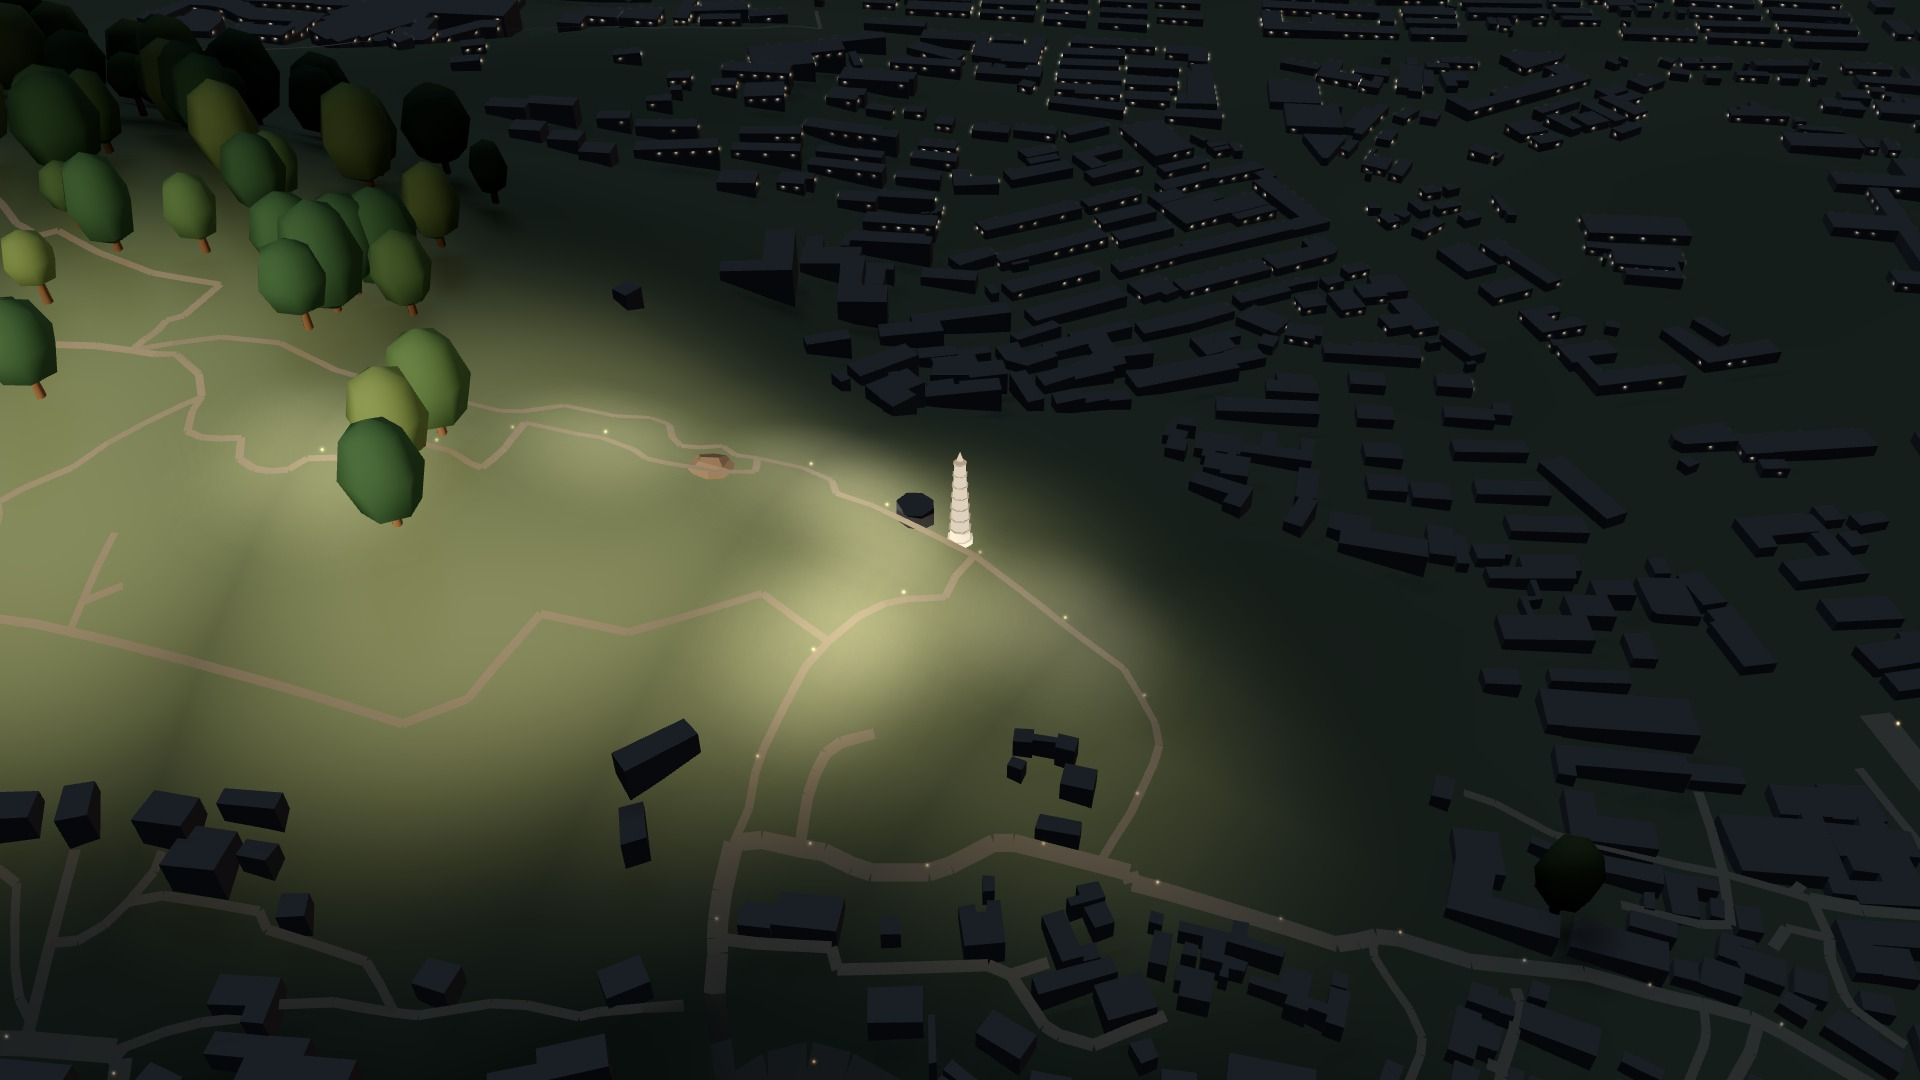
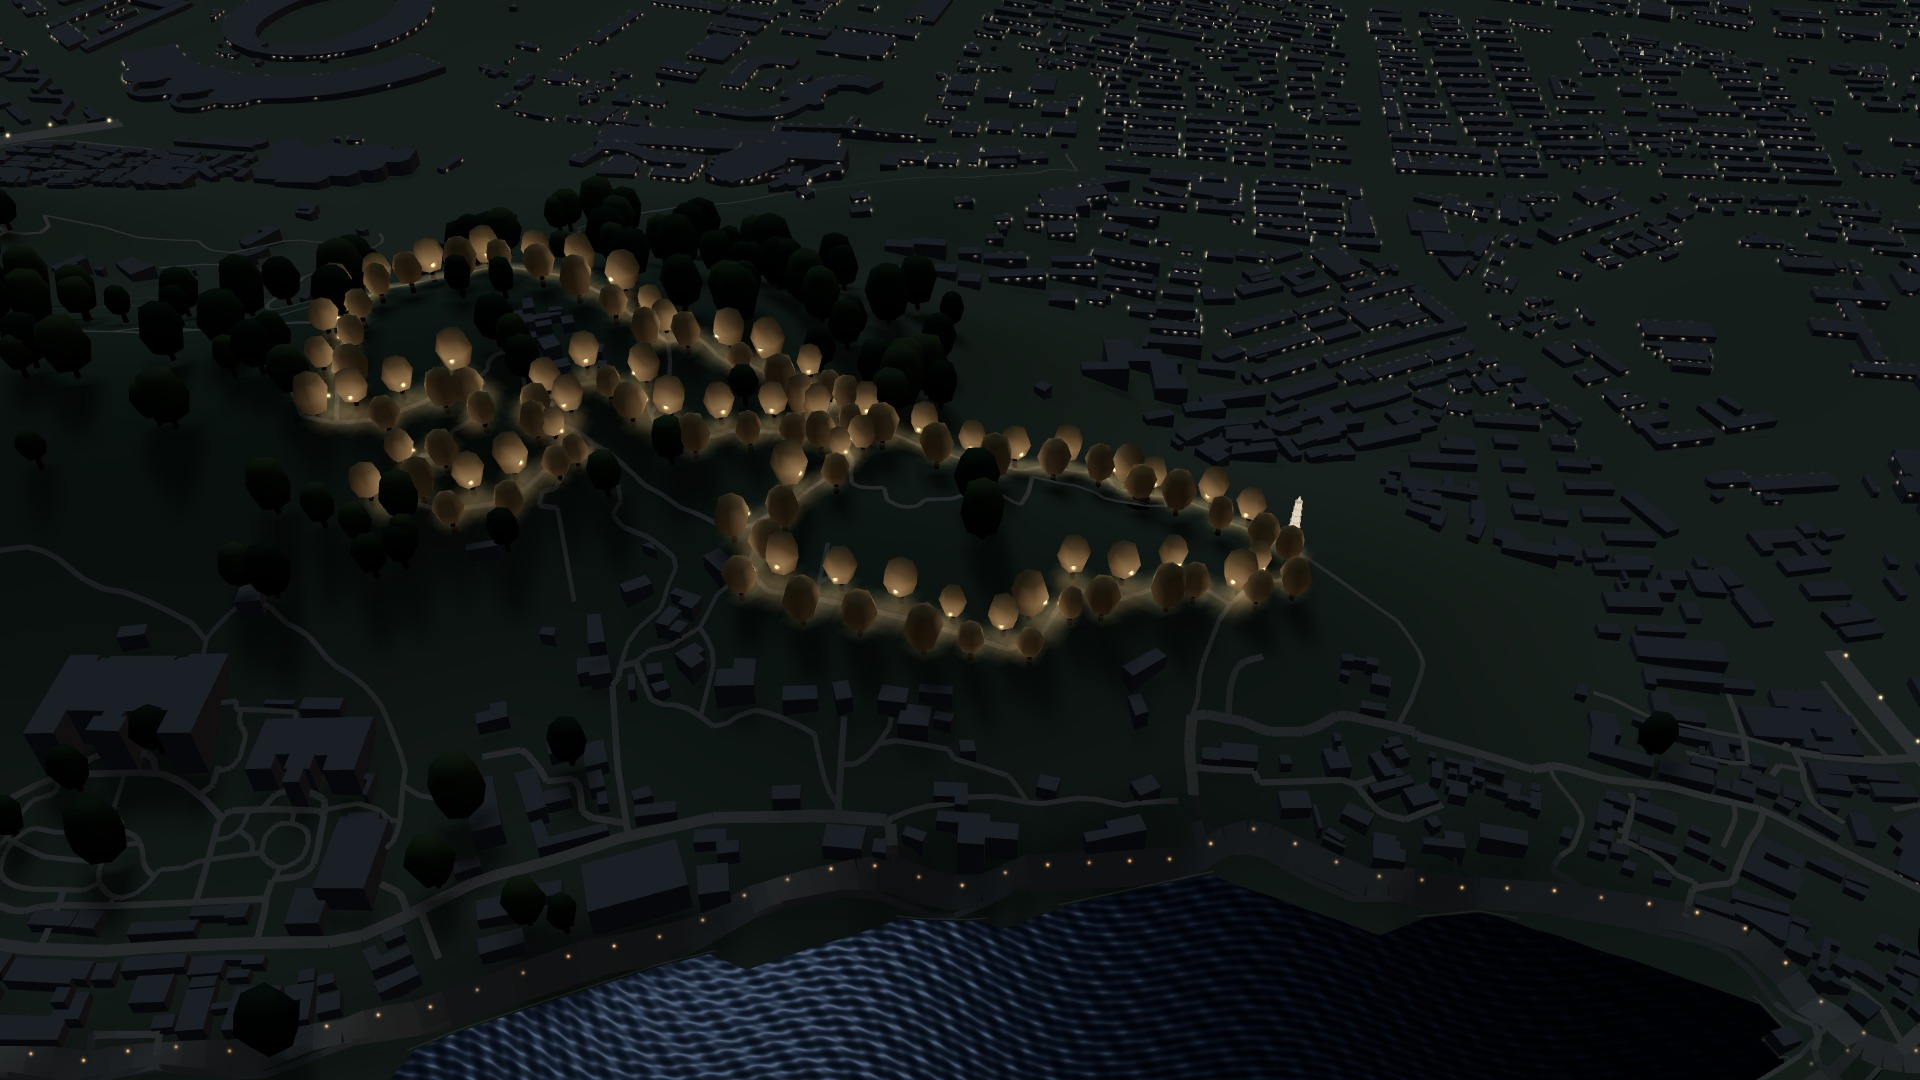
Render a ring of tree lights along actual Baoshi Hill trails

diff --git a/westlake-3d/atlas-lighting.js b/westlake-3d/atlas-lighting.js
@@ -199,11 +199,8 @@ export function createLighting({ scene, renderer, hemisphere, sun, fill, water, 
   lanterns.visible = false;
   scene.add(lanterns);
   const landmarkMaterials = [];
-  const ridgeSampleCount = 7;
-  const ridgeSamples = { value: Array.from({ length: ridgeSampleCount }, () => new THREE.Vector2(100, 100)) };
-  const ridgeMaterials = new WeakSet();
   const facadeLights = { positions: [], styles: [] };
-  let shoreline, facadeLayer, streetLayer;
+  let shoreline, facadeLayer, streetLayer, baoshiLayer;
 
   let rendered, transition;
   function updateFog() {
@@ -328,8 +325,7 @@ export function createLighting({ scene, renderer, hemisphere, sun, fill, water, 
   }
 
   function populateRoads(roads, causewayWays, project, terrainAt, inWater, bounds) {
-    const street = { positions: [], styles: [] }, hillside = { positions: [], styles: [] };
-    const hillWash = [];
+    const street = { positions: [], styles: [] };
     const shore = [];
     const take = new Set();
     const [west, south, east, north] = bounds;
@@ -337,12 +333,10 @@ export function createLighting({ scene, renderer, hemisphere, sun, fill, water, 
       if (way.tunnel || Number(way.layer) < 0) continue;
       const causeway = causewayWays.has(String(way.id));
       const waterfront = /^(北山街|湖滨路|南山路|孤山路|杨公堤)$/.test(way.name);
-      const mountain = ['589666433', '706869403', '706869404'].includes(String(way.id)) ||
-        /^(宝石山上路|宝石山下一弄|保俶塔前山路|葛岭路)$/.test(way.name);
       const trunk = /^(trunk|primary|secondary)(_link)?$/.test(way.kind);
       const local = /^(tertiary|residential|unclassified|living_street|pedestrian|service)$/.test(way.kind);
-      if (!(causeway || waterfront || mountain || trunk || local)) continue;
-      const spacing = mountain ? .043 : causeway ? .060 : waterfront ? .026 : trunk ? .020 : .027;
+      if (!(causeway || waterfront || trunk || local)) continue;
+      const spacing = causeway ? .060 : waterfront ? .026 : trunk ? .020 : .027;
       let next = spacing * (.35 + .5 * seedAt(...way.c[0]));
       for (let i = 1; i < way.c.length; i++) {
         const from = way.c[i - 1], to = way.c[i];
@@ -355,21 +349,19 @@ export function createLighting({ scene, renderer, hemisphere, sun, fill, water, 
           if (lon < west || lon > east || lat < south || lat > north) continue;
           const urban = isCity([lon, lat]);
           const seed = seedAt(lon, lat);
-          if (!(causeway || waterfront || mountain || urban || (trunk && seed > .58))) continue;
+          if (!(causeway || waterfront || urban || (trunk && seed > .58))) continue;
           if (way.kind === 'service' && seed < .68) continue;
           const x = mix(ax, bx, fraction), z = mix(az, bz, fraction);
           if (!causeway && !way.bridge && inWater(x, z)) continue;
           const h = terrainAt(x, z);
-          if (!mountain && !waterfront && !causeway && h > .115) continue;
+          if (!waterfront && !causeway && h > .115) continue;
           const key = `${Math.round(x / .011)}:${Math.round(z / .011)}`;
           if (take.has(key)) continue;
           take.add(key);
           const y = Math.max(h + (trunk ? .012 : .009), way.bridge ? .064 : .032);
-          const target = mountain ? hillside : street;
-          target.positions.push(x, y, z);
-          const strength = (mountain ? .43 : causeway ? .34 : waterfront ? .88 : trunk ? 1.13 : .66) * (.64 + .58 * seed);
-          target.styles.push(strength, trunk ? 1.35 : waterfront ? 1.18 : 1.00, mountain ? .68 : waterfront ? .19 : seed * .67);
-          if (mountain && h > .083 && seed > .38) hillWash.push([x, z, .033 + seed * .026]);
+          street.positions.push(x, y, z);
+          const strength = (causeway ? .34 : waterfront ? .88 : trunk ? 1.13 : .66) * (.64 + .58 * seed);
+          street.styles.push(strength, trunk ? 1.35 : waterfront ? 1.18 : 1.00, waterfront ? .19 : seed * .67);
           if (waterfront && [0, 1, 2, 3].some(n => inWater(x + .033 * Math.cos(n * Math.PI / 2), z + .033 * Math.sin(n * Math.PI / 2)))) {
             shore.push([x, y, z, strength]);
           }
@@ -386,10 +378,49 @@ export function createLighting({ scene, renderer, hemisphere, sun, fill, water, 
       if (reflectionSources.length === shoreReflectionCount) break;
     }
     streetLayer = addPoints(street, 'Mapped_Street_Lights');
-    addPoints(hillside, 'Baoshi_Access_Lights');
+  }
+
+  function addBaoshiTreeLights(path, terrainAt, canPlant) {
+    const lights = { positions: [], styles: [] };
+    const trees = [], pools = [];
+    let next = .007, index = 0;
+    for (let i = 1; i < path.length; i++) {
+      const [ax, az] = path[i - 1], [bx, bz] = path[i];
+      const length = Math.hypot(bx - ax, bz - az);
+      for (; next < length;) {
+        const x = mix(ax, bx, next / length), z = mix(az, bz, next / length);
+        const seed = seedAt(x, z);
+        next += .014 + seed * .007;
+        const distance = .009 + seed * .004;
+        const side = index++ % 2 ? 1 : -1;
+        const dx = (bz - az) / length * distance * side;
+        const dz = (ax - bx) / length * distance * side;
+        const sign = canPlant(x + dx, z + dz) ? 1 : -1;
+        const tx = x + dx * sign, tz = z + dz * sign;
+        if (!canPlant(tx, tz) || trees.some(({x: px, z: pz}) => (px - tx) ** 2 + (pz - tz) ** 2 < .011 ** 2)) continue;
+        const y = terrainAt(tx, tz);
+        const size = .0088 + seed * .004;
+        const lampX = mix(tx, x, .88), lampY = y + size * 1.58, lampZ = mix(tz, z, .88);
+        trees.push({ x: tx, z: tz, y, size, lampX, lampY, lampZ });
+        lights.positions.push(lampX, lampY, lampZ);
+        lights.styles.push(.89 + seed * .50, 1.25 + seed * .43, .32 + seed * .30);
+        pools.push([mix(tx, x, .73), mix(tz, z, .73), .013 + seed * .006]);
+      }
+      next -= length;
+    }
+    const bulbs = addPoints(lights, 'Baoshi_Tree_Lights');
+    bulbs.userData.trees = trees;
+    baoshiLayer = new THREE.Group();
+    baoshiLayer.name = 'Baoshi_Woodland_Lighting';
+    baoshiLayer.add(bulbs, createTrailLightPools(pools, terrainAt));
+    lanterns.add(baoshiLayer);
+    return trees;
+  }
+
+  function createTrailLightPools(pools, terrainAt) {
     const positions = [], falloff = [], indices = [];
-    const divisions = 12;
-    for (const [x, z, radius] of hillWash) {
+    const divisions = 6;
+    for (const [x, z, radius] of pools) {
       for (let row = 0; row <= divisions; row++) {
         for (let column = 0; column <= divisions; column++) {
           const u = column / divisions * 2 - 1, v = row / divisions * 2 - 1;
@@ -415,65 +446,12 @@ export function createLighting({ scene, renderer, hemisphere, sun, fill, water, 
       fragmentShader: `
         uniform float night;
         varying float groundLight;
-        void main() { gl_FragColor = vec4(.84, .78, .64, groundLight * night * .22); }
+        void main() { gl_FragColor = vec4(.95, .76, .48, groundLight * night * .33); }
       `
     });
     const wash = new THREE.Mesh(geometry, material);
-    wash.name = 'Baoshi_Ridge_Light_Wash';
-    lanterns.add(wash);
-  }
-
-  function locateBaoshiRidge(roads, project) {
-    const ridge = roads.filter(way => ['584423052', '589666433'].includes(String(way.id)))
-      .flatMap(way => way.c.map(project)).sort((a, b) => a[0] - b[0]);
-    if (!ridge.length) return;
-    const width = ridge.at(-1)[0] - ridge[0][0];
-    ridgeSamples.value.forEach((point, i) => {
-      const x = ridge[0][0] + width * i / (ridgeSampleCount - 1);
-      let closest = ridge[0];
-      for (const candidate of ridge) {
-        if (Math.abs(candidate[0] - x) < Math.abs(closest[0] - x)) closest = candidate;
-      }
-      point.set(...closest);
-    });
-  }
-
-  function lightBaoshiSurface(material, amount) {
-    if (ridgeMaterials.has(material)) return;
-    ridgeMaterials.add(material);
-    const compile = material.onBeforeCompile;
-    const cacheKey = material.customProgramCacheKey();
-    material.customProgramCacheKey = () => cacheKey + ':baoshi-surface';
-    material.onBeforeCompile = shader => {
-      compile.call(material, shader);
-      Object.assign(shader.uniforms, { ridgeSamples, ridgeNight: night, ridgeAmount: { value: amount } });
-      shader.vertexShader = 'varying vec3 ridgePosition;\n' + shader.vertexShader.replace('#include <begin_vertex>', `
-        #include <begin_vertex>
-        ridgePosition = (modelMatrix * vec4(position, 1.0)).xyz;
-      `);
-      shader.fragmentShader = `
-        varying vec3 ridgePosition;
-        uniform vec2 ridgeSamples[${ridgeSampleCount}];
-        uniform float ridgeNight, ridgeAmount;
-        ${shader.fragmentShader}
-      `.replace('#include <emissivemap_fragment>', `
-        #include <emissivemap_fragment>
-        if (ridgeNight > .001 && ridgePosition.y > .048) {
-          float ridgeLight = 0.0;
-          for (int i = 0; i < ${ridgeSampleCount}; i++) {
-            vec2 offset = ridgePosition.xz - ridgeSamples[i] - vec2(0.0, .052);
-            vec2 falloff = offset / vec2(.162, .20);
-            float weight = .79 + .21 * cos(float(i) * 1.6 + .25);
-            ridgeLight = max(ridgeLight, exp(-dot(falloff, falloff) * 1.65) * weight);
-          }
-          vec3 slope = inverseTransformDirection(normal, viewMatrix);
-          float facing = max(0.0, dot(slope, normalize(vec3(.19, .46, .87))));
-          float hill = smoothstep(.048, .114, ridgePosition.y);
-          float intensity = ridgeNight * ridgeAmount * hill * smoothstep(.03, .88, ridgeLight);
-          totalEmissiveRadiance += diffuseColor.rgb * vec3(1.0, .81, .57) * intensity * (.23 + .77 * facing);
-        }
-      `);
-    };
+    wash.name = 'Baoshi_Trail_Light_Pools';
+    return wash;
   }
 
   function lightLandmark(object, color, strength) {
@@ -509,7 +487,22 @@ export function createLighting({ scene, renderer, hemisphere, sun, fill, water, 
   }
   apply('day');
   return {
-    addFacade, populateRoads, lightLandmark, locateBaoshiRidge, lightBaoshiSurface,
+    addFacade, populateRoads, lightLandmark, addBaoshiTreeLights,
+    lightCanopies(material) {
+      material.emissive.setHex(0xe3b383).lerp(material.color, .23);
+      material.emissiveIntensity = 0;
+      landmarkMaterials.push([material, .64]);
+      const compile = material.onBeforeCompile;
+      const key = material.customProgramCacheKey();
+      material.customProgramCacheKey = () => key + ':baoshi-canopy';
+      material.onBeforeCompile = shader => {
+        compile.call(material, shader);
+        shader.vertexShader = 'attribute float canopyLamp; varying float canopyGlow;\n' +
+          shader.vertexShader.replace('#include <begin_vertex>', '#include <begin_vertex>\n canopyGlow = canopyLamp;');
+        shader.fragmentShader = 'varying float canopyGlow;\n' +
+          shader.fragmentShader.replace('#include <emissivemap_fragment>', '#include <emissivemap_fragment>\n totalEmissiveRadiance *= canopyGlow;');
+      };
+    },
     finishFacades() { facadeLayer = addPoints(facadeLights, 'Mapped_Facade_Windows'); },
     dimShoreline(material) { shoreline = material; shoreline.transparent = true; shoreline.depthWrite = false; },
     weatherSurface: weather.surface,
@@ -530,6 +523,7 @@ export function createLighting({ scene, renderer, hemisphere, sun, fill, water, 
       if (lanterns.visible && facadeLayer && streetLayer) {
         facadeLayer.visible = layers.Buildings.visible;
         streetLayer.visible = layers.Roads.visible;
+        if (baoshiLayer) baoshiLayer.visible = layers.Trees.visible;
       }
     }
   };

diff --git a/westlake-3d/app.js b/westlake-3d/app.js
@@ -2,7 +2,7 @@ import * as THREE from 'three';
 import {OrbitControls} from './OrbitControls.js';
 import {mergeGeometries, mergeVertices} from './BufferGeometryUtils.js';
 import { places } from './atlas-data.js';
-import { readTrails } from './atlas-trails.js';
+import { readTrails, readBaoshiLightLoop } from './atlas-trails.js';
 import { createAtlasUI } from './atlas-ui.js';
 import { createBuildingLayer, createTrailLayer, createTrailOverview } from './atlas-geometry.js';
 import { buildCauseways, buildStoneLanterns, causewayWays, layoutCauseways } from './atlas-waterfront.js';
@@ -362,9 +362,6 @@ function addLakeBoats() {
 
 function build(d, footprintData){
  const n=d.size,[west,south,east,north]=d.bbox;const[xmin,zmax]=project([west,south]),[xmax,zmin]=project([east,north]);
- lighting.locateBaoshiRidge(d.roads, project);
- lighting.lightBaoshiSurface(materials.earth, .93);
- lighting.lightBaoshiSurface(materials.road, .49);
  const waters=d.water.map(r=>({...ringInfo(r.c.map(project)),role:r.role})),outer=waters.filter(r=>r.role==='outer'),inner=waters.filter(r=>r.role==='inner');
  inWater=(x,z)=>outer.some(r=>inPoly(x,z,r))&&!inner.some(r=>inPoly(x,z,r));
  const causewayLayout = layoutCauseways(d.roads, project);
@@ -451,13 +448,44 @@ function build(d, footprintData){
  let seed=2731;const rand=()=>{seed=(Math.imul(seed,1664525)+1013904223)>>>0;return seed/4294967296};const crowns=[[],[],[]],trunks=[],treeMats=['#527657','#65845b','#819964'].map((c,i)=>mat('Canopy_'+i,c));
  const treeBase=compactUntextured(new THREE.SphereGeometry(1,6,4));
  const trunkBase=compactUntextured(new THREE.CylinderGeometry(.0014,.002,.014,5));
- let count=0;for(let t=0;t<55000&&count<3750;t++){const x=xmin+.03+rand()*(xmax-xmin-.06),z=zmin+.03+rand()*(zmax-zmin-.06),y=terrainAt(x,z);if(inWater(x,z)||landmarkPoints.some(p=>Math.hypot(x-p[0],z-p[1])<.05)||buildings.nearbyFootprints(x,z).some(r=>inPoly(x,z,r))||nearRoute(x,z))continue;if(!greenRings.some(r=>inPoly(x,z,r))&&!(y>.13&&x<.8))continue;const s=.009+rand()*.009;const c=treeBase.clone();c.scale(s,s*(1.15+rand()*.4),s);c.rotateY(rand()*6.28);c.translate(x,y+s+.01,z);crowns[count%3].push(c);const tr=trunkBase.clone();tr.translate(x,y+.007,z);trunks.push(tr);count++}
- for(let i=0;i<3;i++)merged(crowns[i],treeMats[i],'Canopy_'+i,groups.Trees);merged(trunks,materials.wood,'Tree_Trunks',groups.Trees);treeBase.dispose();trunkBase.dispose();
- groups.Trees.traverse(object => {
-   if (object.material?.isMeshStandardMaterial) {
-     lighting.weatherSurface(object.material, .78, .55);
-     lighting.lightBaoshiSurface(object.material, 1.15);
+ const treeLocation = (x, z, clearance = .05) => !inWater(x,z) &&
+   !landmarkPoints.some(([px,pz]) => Math.hypot(x-px,z-pz) < clearance) &&
+   !buildings.nearbyFootprints(x,z).some(r => inPoly(x,z,r));
+ const baoshiTrees = lighting.addBaoshiTreeLights(readBaoshiLightLoop(d.roads).map(project), terrainAt,
+   (x,z) => treeLocation(x,z,.016));
+ const canopyAt = (x,y,z,size,shape,angle) => {
+   const geometry = treeBase.clone();
+   geometry.scale(size, size * shape, size);
+   geometry.rotateY(angle);
+   geometry.translate(x, y + size + .01, z);
+   return geometry;
+ };
+ const trunkAt = (x,y,z) => {
+   const geometry = trunkBase.clone();
+   geometry.translate(x,y+.007,z);
+   return geometry;
+ };
+ const grove = baoshiTrees.map(({x,z,y,size,lampX,lampY,lampZ}, i) => {
+   trunks.push(trunkAt(x,y,z));
+   const canopy = canopyAt(x,y,z,size,1.15+i%5*.065,i*2.4);
+   const points = canopy.getAttribute('position');
+   const glow = new Float32Array(points.count);
+   for (let vertex = 0; vertex < points.count; vertex++) {
+     const distance = Math.hypot(points.getX(vertex)-lampX,points.getY(vertex)-lampY,points.getZ(vertex)-lampZ);
+     glow[vertex] = .035 + .81 * Math.exp(-distance * distance / (.0065 + size * .55) ** 2);
    }
+   canopy.setAttribute('canopyLamp', new THREE.BufferAttribute(glow, 1));
+   return canopy;
+ });
+ const groveMaterial = mat('Baoshi_Lantern_Canopy', 0x527657);
+ lighting.weatherSurface(groveMaterial, .78, .55);
+ lighting.lightCanopies(groveMaterial);
+ merged(grove,groveMaterial,'Baoshi_Lantern_Trees',groups.Trees);
+ let count=0;for(let t=0;t<55000&&count<3750;t++){const x=xmin+.03+rand()*(xmax-xmin-.06),z=zmin+.03+rand()*(zmax-zmin-.06),y=terrainAt(x,z);if(!treeLocation(x,z)||nearRoute(x,z)||baoshiTrees.some(({x:tx,z:tz})=>(x-tx)**2+(z-tz)**2<.015**2))continue;if(!greenRings.some(r=>inPoly(x,z,r))&&!(y>.13&&x<.8))continue;const s=.009+rand()*.009;crowns[count%3].push(canopyAt(x,y,z,s,1.15+rand()*.4,rand()*6.28));trunks.push(trunkAt(x,y,z));count++}
+ for(let i=0;i<3;i++)merged(crowns[i],treeMats[i],'Canopy_'+i,groups.Trees);merged(trunks,materials.wood,'Tree_Trunks',groups.Trees);treeBase.dispose();trunkBase.dispose();
+ count += baoshiTrees.length;
+ groups.Trees.traverse(object => {
+   if (object.material?.isMeshStandardMaterial) lighting.weatherSurface(object.material, .78, .55);
  });
  // Named landmarks are deliberately stylized volumes, separate and editable in Blender.
  function pagoda(name,c,levels,tall,radius){const g=new THREE.Group();g.name=name;const[x,z]=project(c),y=terrainAt(x,z);g.position.set(x,y+.006,z);groups.Landmarks.add(g);const add=(geo,m,n,h)=>{geo.translate(0,h,0);return mesh(geo,m,n,g)};add(new THREE.CylinderGeometry(radius*1.3,radius*1.4,.008,8),materials.stone,'Stone_Platform',.004);for(let i=0;i<levels;i++){const h=tall/levels,rad=radius*(1-i/(levels+2)*.52);add(new THREE.CylinderGeometry(rad*.75,rad*.8,h*.72,8),i===0?materials.stone:materials.wood,'Tower_Level_'+(i+1),.008+i*h+h*.36);add(new THREE.CylinderGeometry(rad*.45,rad*1.14,h*.23,8),materials.roof,'Eaves_'+(i+1),.008+i*h+h*.83);add(new THREE.CylinderGeometry(rad*.85,rad*.85,.002,8),materials.gold,'Balcony_'+(i+1),.008+i*h+.004)}add(new THREE.ConeGeometry(radius*.2,.025,8),materials.gold,'Finial',tall+.022);return g}
@@ -490,9 +518,7 @@ function build(d, footprintData){
  rock.scale(.010, .005, .007);
  rock.rotateY(.38);
  rock.translate(rockX - .005, terrainAt(rockX - .005, rockZ + .011) + .003, rockZ + .011);
- const exposedRock = mat('Baoshi_Exposed_Rock', 0x978676);
- lighting.lightBaoshiSurface(exposedRock, 1.19);
- mesh(rock, exposedRock, 'Hama_Peak_Rock_Concept', groups.Landmarks);
+ mesh(rock, mat('Baoshi_Exposed_Rock', 0x978676), 'Hama_Peak_Rock_Concept', groups.Landmarks);
  const lanterns = buildStoneLanterns({ project, mesh, mat, materials });
  groups.Landmarks.add(lanterns.group);
  waterfrontViews.set('moon', [

diff --git a/westlake-3d/atlas-trails.js b/westlake-3d/atlas-trails.js
@@ -8,6 +8,16 @@ const fromChuyang = [
   ridge('5586466175')
 ];
 
+// The lighting follows mapped trail edges from Chuyang Terrace to Baochu Pagoda,
+// returning via Deng Kailing and the north-slope woodland paths.
+const baoshiLightLoop = [
+  ['584423049', '5586466264', '5586466175'], ['584423052', '5586466175', '5586466191'],
+  ['589666433', '5586466191', '5630850000'], ['706869404', '5630850000', '6642625064'],
+  ['747496138', '6642625064', '9039334828'], ['976825033', '9039334828', '5586466147'],
+  ['584423046', '5586466147', '5586466181'], ['584423050', '5586466181', '5586466176'],
+  ['584423047', '5586466176', '5586466155'], ['587415805', '5586466155', '5586466264']
+];
+
 export const trails = [
   {
     id: 'huanglong', name: '黄龙洞后山口', color: '#08796d', side: '西北侧',
@@ -76,25 +86,31 @@ export const trails = [
   }
 ];
 
+function readLeg(way, leg) {
+  if (!way || !way.walk || way.tunnel) throw new Error('Missing walking route way: ' + leg.way);
+  const from = way.nodes.indexOf(leg.from), to = way.nodes.indexOf(leg.to);
+  if (from < 0 || to < 0 || from === to) throw new Error('Missing route nodes: ' + leg.way);
+  const start = Math.min(from, to), end = Math.max(from, to) + 1;
+  const coordinates = way.c.slice(start, end), nodes = way.nodes.slice(start, end);
+  if (from > to) {
+    coordinates.reverse();
+    nodes.reverse();
+  }
+  return { ...leg, coordinates, nodes, stairs: way.kind === 'steps' };
+}
+
 export function readTrails(roads) {
   const ways = new Map(roads.map(road => [road.id, road]));
-  return trails.map(trail => {
-    const legs = trail.legs.map((leg, index) => {
-      const way = ways.get(leg.way);
-      if (!way || !way.walk || way.tunnel) throw new Error('Missing walking route way: ' + leg.way);
-      if (index && trail.legs[index - 1].to !== leg.from) throw new Error('Disconnected route: ' + trail.id);
-      const from = way.nodes.indexOf(leg.from);
-      const to = way.nodes.indexOf(leg.to);
-      if (from < 0 || to < 0 || from === to) throw new Error('Missing route nodes: ' + leg.way);
-      const start = Math.min(from, to), end = Math.max(from, to) + 1;
-      const coordinates = way.c.slice(start, end);
-      const nodes = way.nodes.slice(start, end);
-      if (from > to) {
-        coordinates.reverse();
-        nodes.reverse();
-      }
-      return { ...leg, coordinates, nodes, stairs: way.kind === 'steps' };
-    });
-    return { ...trail, legs };
-  });
+  return trails.map(trail => ({ ...trail, legs: trail.legs.map((leg, index) => {
+    if (index && trail.legs[index - 1].to !== leg.from) throw new Error('Disconnected route: ' + trail.id);
+    return readLeg(ways.get(leg.way), leg);
+  }) }));
+}
+
+export function readBaoshiLightLoop(roads) {
+  const ways = new Map(roads.map(road => [road.id, road]));
+  const coordinates = baoshiLightLoop.flatMap(([way, from, to]) =>
+    readLeg(ways.get(way), { way, from, to }).coordinates.slice(0, -1));
+  coordinates.push(coordinates[0]);
+  return coordinates;
 }
